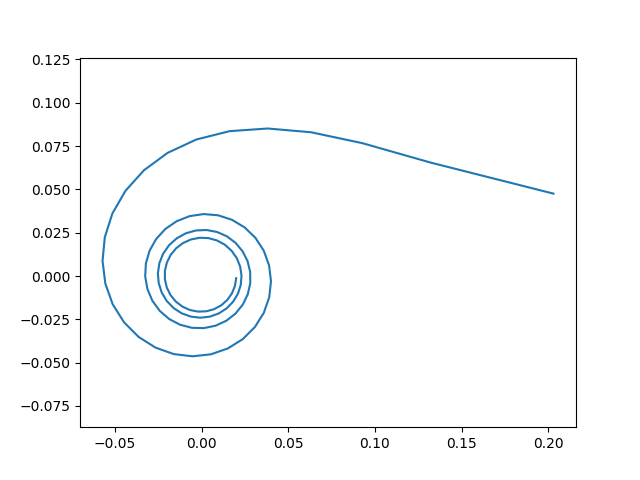
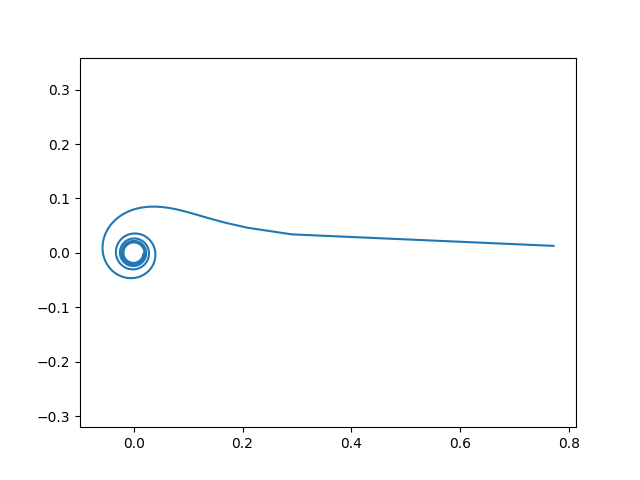
Ксюша лох

diff --git a/task4.py b/task4.py
@@ -1,7 +1,7 @@
 import matplotlib.pyplot as plt
 import numpy as np
 k = 0.1
-phi_max = 8 * np.pi 
+phi_max = 10 * np.pi 
 e = 2.71828
 def arhimed():
 
@@ -26,7 +26,7 @@ def log(b=0.2):
 
 def jezl():
 
-    p = np.arange(0, phi_max, 0.23)
+    p = np.arange(-2* np.pi, phi_max, 0.1)
     rho = k / np.sqrt(p)
     x = rho * np.cos(p)
     y = rho * np.sin(p)
@@ -48,4 +48,4 @@ def rose():
 
     plt.savefig('fig_11.png')
 if __name__ =='__main__':
-    rose()
+    jezl()

diff --git a/dop_task4.py b/dop_task4.py
@@ -1,0 +1,4 @@
+import matplotlib.pyplot as plt
+import numpy as np
+plt.plot(np.linspace(0, 10, 1000),np.linspace(0, 10, 1000)//1)
+plt.savefig('fig_13.png')

diff --git a/README.md b/README.md
@@ -1,4 +1,4 @@
 # Базовый курс (моделирование на python)
 Репозиторий для прохождения базового курса по языку программирования python,
 в рамках общего цикла лекций "Моделирование на python".
-print('Hello word')
+print('Hello word')  
